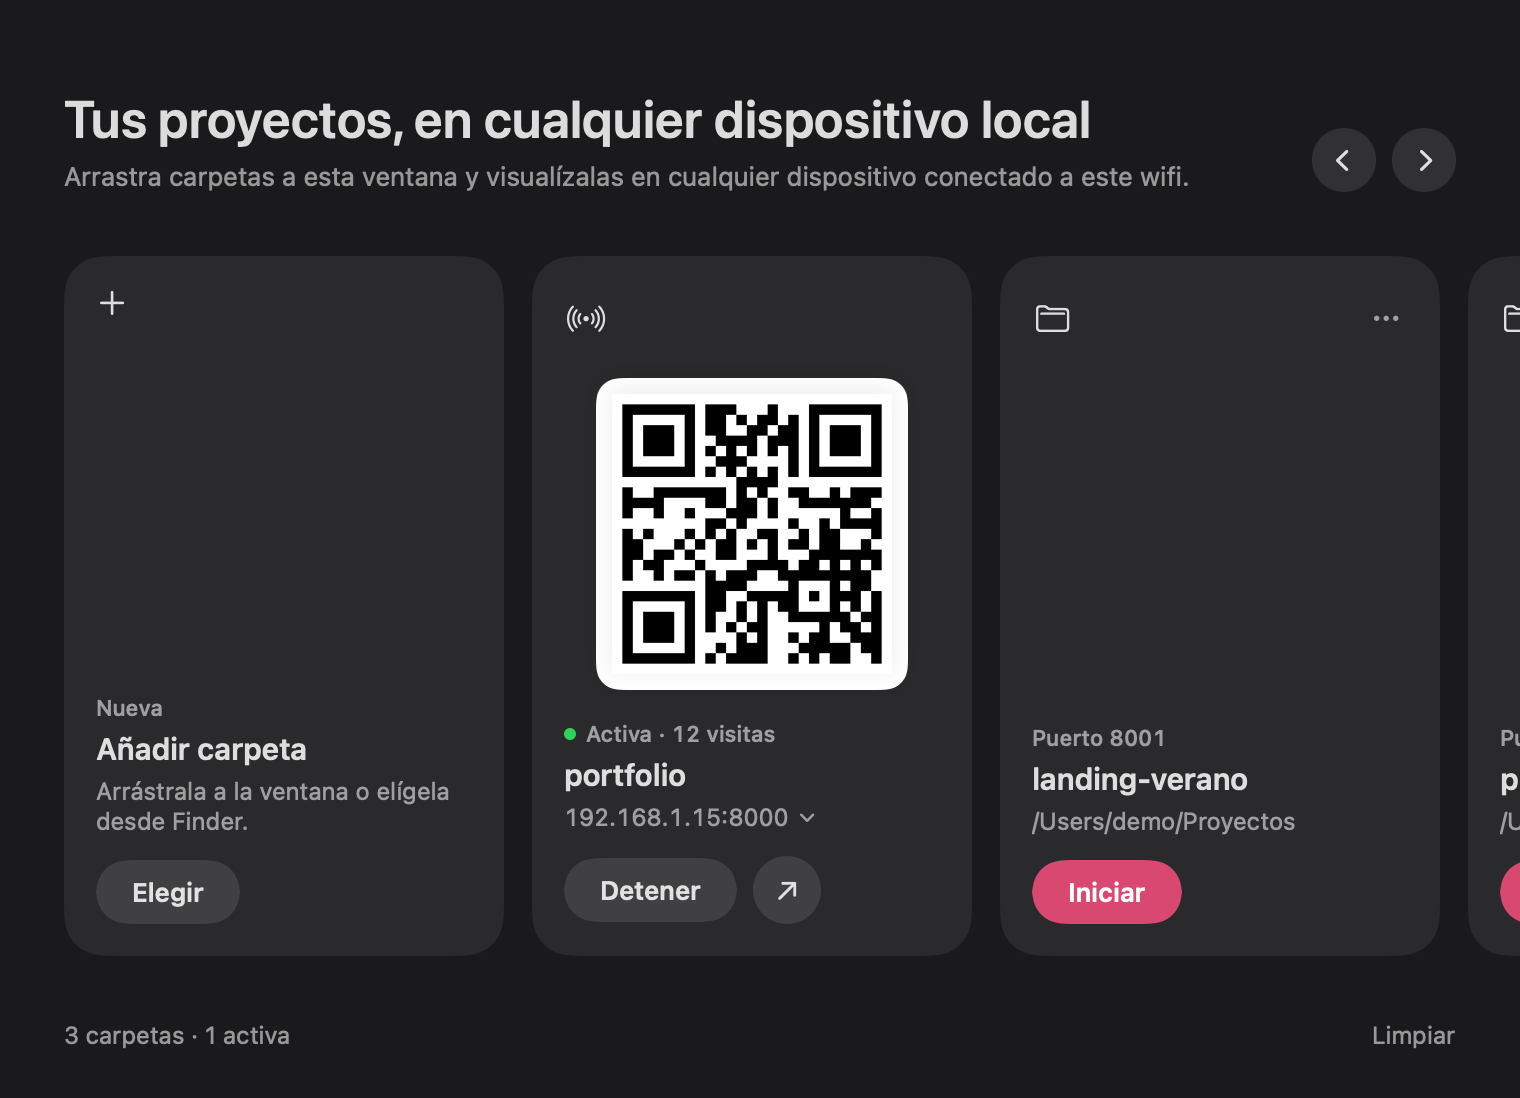
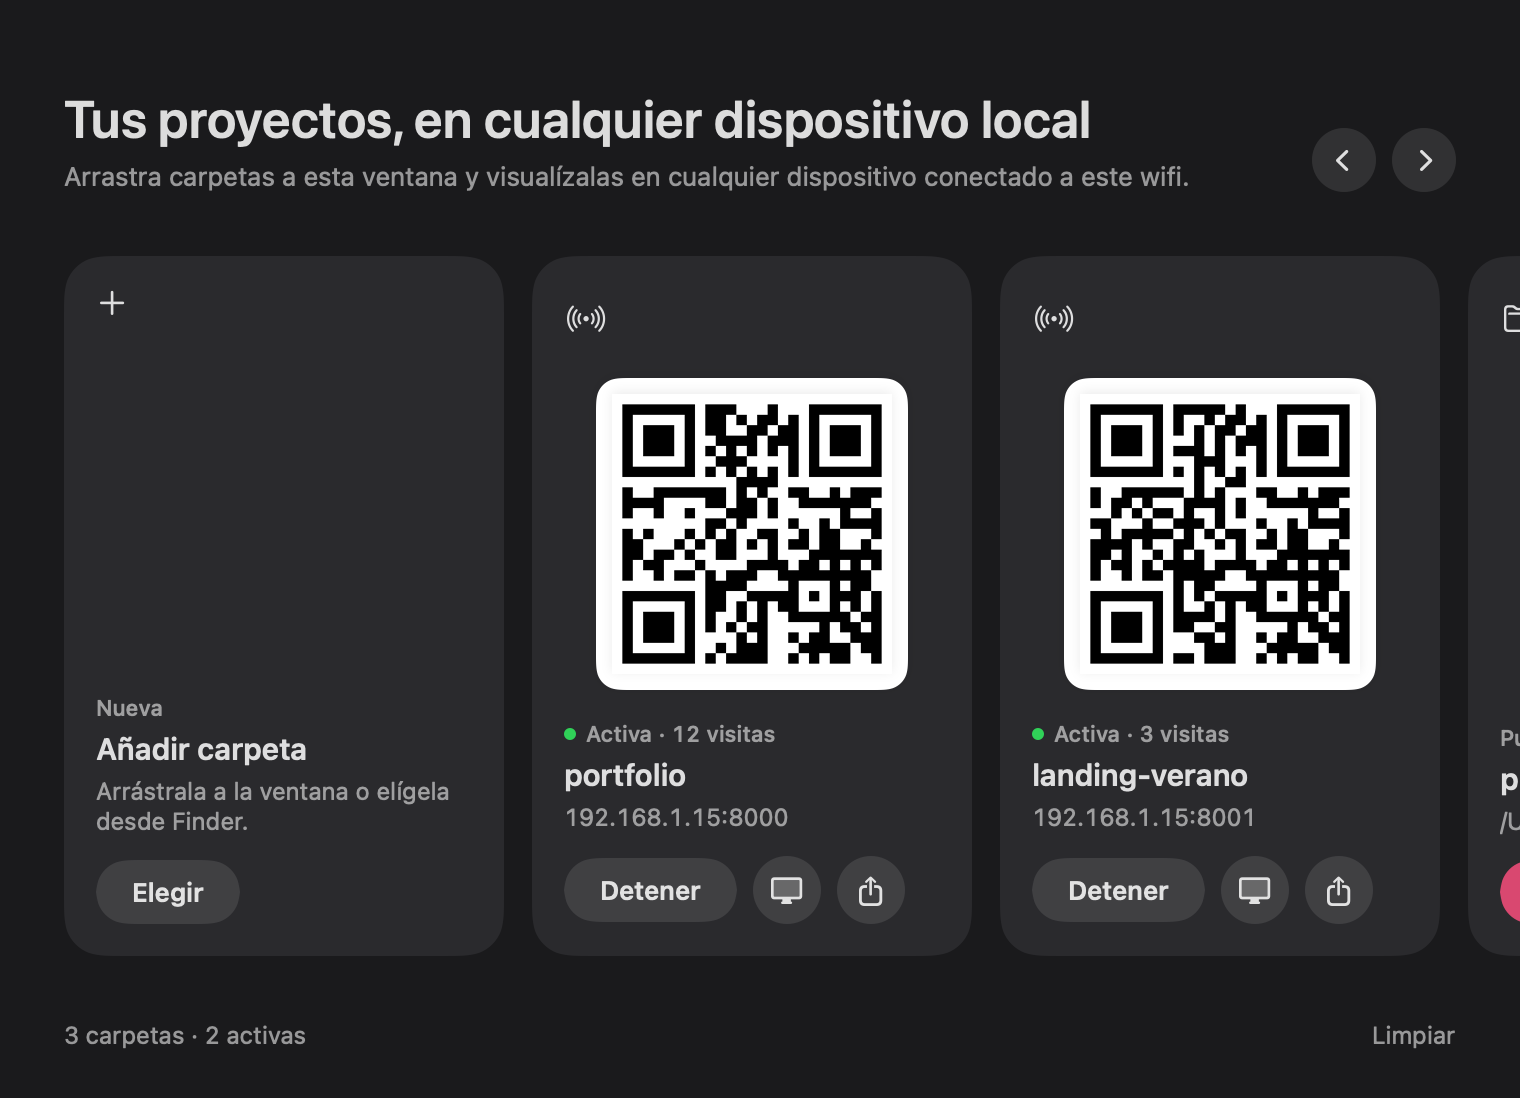
Mejoras y ajustes de UI

diff --git a/LocalDemoApp.swift b/LocalDemoApp.swift
@@ -484,19 +484,17 @@ struct ContentView: View {
 
 // MARK: - Card shell
 
-/// Tall rounded card with a flat warm-grey background that never changes colour;
-/// on hover it lifts 2 pt with a faint shadow.
+/// Tall rounded card with a flat warm-grey background; on hover it lifts 2 pt with a faint shadow.
 struct Card<Content: View>: View {
     @ViewBuilder var content: () -> Content
     @State private var hovering = false
 
     var body: some View {
         let shape = RoundedRectangle(cornerRadius: 20, style: .continuous)
-        let fill = Brand.card   // backgrounds never change colour; only the CTA carries colour
 
         content()
             .frame(width: ContentView.cardSize.width, height: ContentView.cardSize.height)
-            .background(fill, in: shape)
+            .background(Brand.card, in: shape)
             .clipShape(shape)
             .offset(y: hovering ? -2 : 0)
             .shadow(color: .black.opacity(hovering ? 0.05 : 0), radius: 12, y: 6)
@@ -621,19 +619,24 @@ struct SiteCard: View {
                 if site.isRunning {
                     Button("Detener") { site.stop() }
                         .buttonStyle(PillButtonStyle(kind: .neutral))
-                    if let url = site.shareURL {
+                    if let url = site.shareURL, let link = URL(string: url) {
                         // Opens the site in the default browser.
                         Button { open(url) } label: {
-                            Image(systemName: "arrow.up.right")
-                                .font(.system(size: 12, weight: .semibold))
-                                .frame(width: 34, height: 34)
-                                .background(Brand.pillFill, in: Circle())
-                                .contentShape(Circle())
+                            circleIcon("display")
                         }
                         .buttonStyle(.plain)
                         .foregroundStyle(.primary)
                         .help("Abrir en el navegador")
                         .accessibilityLabel("Abrir en el navegador")
+
+                        // Native macOS share menu (AirDrop, Mensajes, Mail, Notas…) with the address.
+                        ShareLink(item: link) {
+                            circleIcon("square.and.arrow.up")
+                        }
+                        .buttonStyle(.plain)
+                        .foregroundStyle(.primary)
+                        .help("Compartir dirección")
+                        .accessibilityLabel("Compartir dirección")
                     }
                 } else {
                     Button("Iniciar") { site.start() }
@@ -645,6 +648,15 @@ struct SiteCard: View {
         }
     }
 
+    /// Round grey icon button face, same height as the pill buttons.
+    private func circleIcon(_ symbol: String) -> some View {
+        Image(systemName: symbol)
+            .font(.system(size: 13, weight: .semibold))
+            .frame(width: 34, height: 34)
+            .background(Brand.pillFill, in: Circle())
+            .contentShape(Circle())
+    }
+
     @ViewBuilder
     private func description() -> some View {
         if let error = site.errorMessage, !site.isRunning {
@@ -654,26 +666,27 @@ struct SiteCard: View {
                 .lineLimit(3)
                 .fixedSize(horizontal: false, vertical: true)
         } else if site.isRunning {
-            Menu {
-                if let url = site.shareURL {
-                    Button(copied ? "Copiada" : "Copiar dirección") { copy(url) }
-                    Button("Abrir en el navegador") { open(url) }
-                }
+            // Click the address to copy it; it briefly confirms in place.
+            let shown = (site.networkURL ?? site.shareURL ?? "").replacingOccurrences(of: "http://", with: "")
+            Button {
+                if let url = site.shareURL { copy(url) }
             } label: {
-                HStack(spacing: 4) {
-                    Text((site.networkURL ?? site.shareURL ?? "").replacingOccurrences(of: "http://", with: ""))
-                        .monospacedDigit()
-                    Image(systemName: "chevron.down").font(.system(size: 8, weight: .bold))
+                Group {
+                    if copied {
+                        Label("URL en el portapapeles", systemImage: "checkmark")
+                    } else {
+                        Text(shown).monospacedDigit()
+                    }
                 }
                 .font(.system(size: 12))
                 .foregroundStyle(.secondary)
                 .contentShape(Rectangle())
+                .animation(.easeOut(duration: 0.15), value: copied)
             }
-            .menuStyle(.button)
             .buttonStyle(.plain)
-            .menuIndicator(.hidden)
             .fixedSize()
-            .help("Copiar o abrir la dirección")
+            .help("Copiar dirección")
+            .accessibilityLabel("Copiar dirección \(shown)")
         } else {
             Text((site.folder.deletingLastPathComponent().path as NSString).abbreviatingWithTildeInPath)
                 .font(.system(size: 12))
